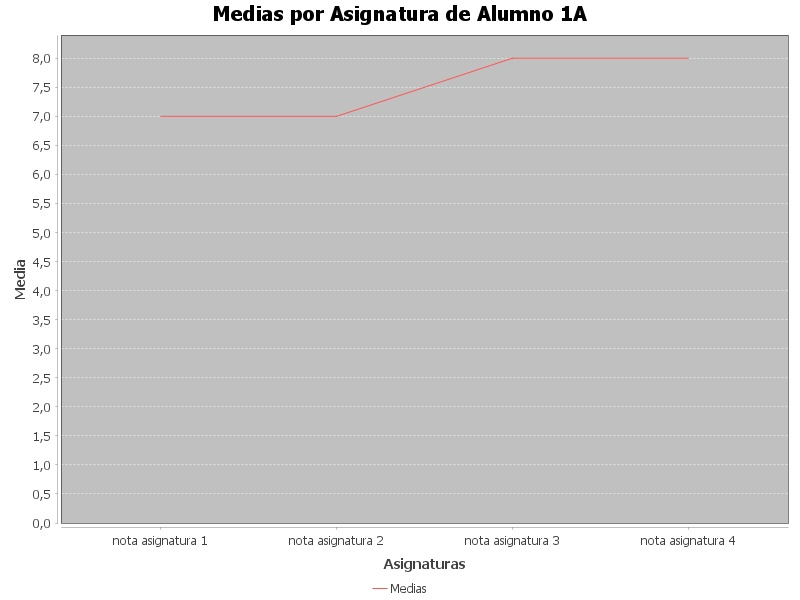
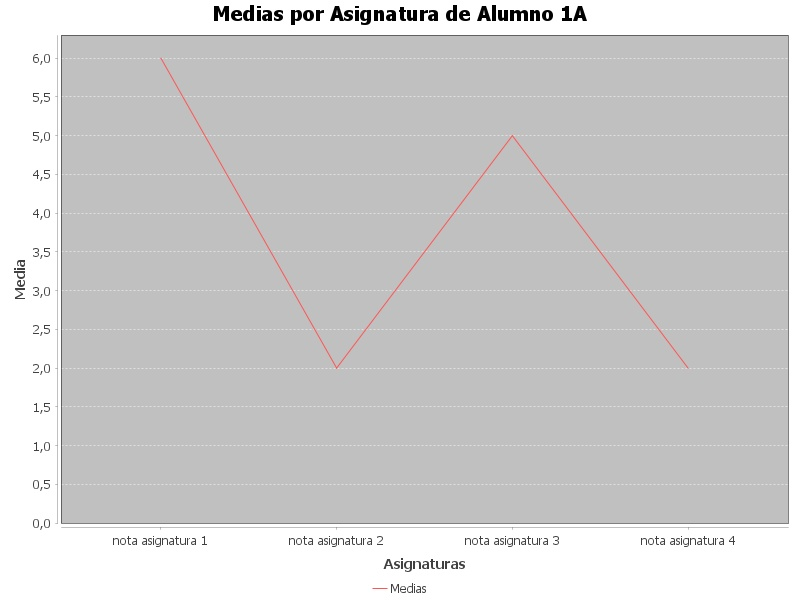
examen version final 2

diff --git a/src/main/java/com/mycompany/examendi/Escuela.java b/src/main/java/com/mycompany/examendi/Escuela.java
@@ -554,7 +554,7 @@ public class Escuela extends javax.swing.JFrame {
                 }
                 filaMedia.createCell(0).setCellValue(Alumno);
 
-                for (int col = 0; col <= 11; col++) {
+                for (int col = 0; col <= 3; col++) {
                     double media = calcularMedia(hojaAlumno, col);
                     filaMedia.createCell(col + 1).setCellValue(media);
                 }
